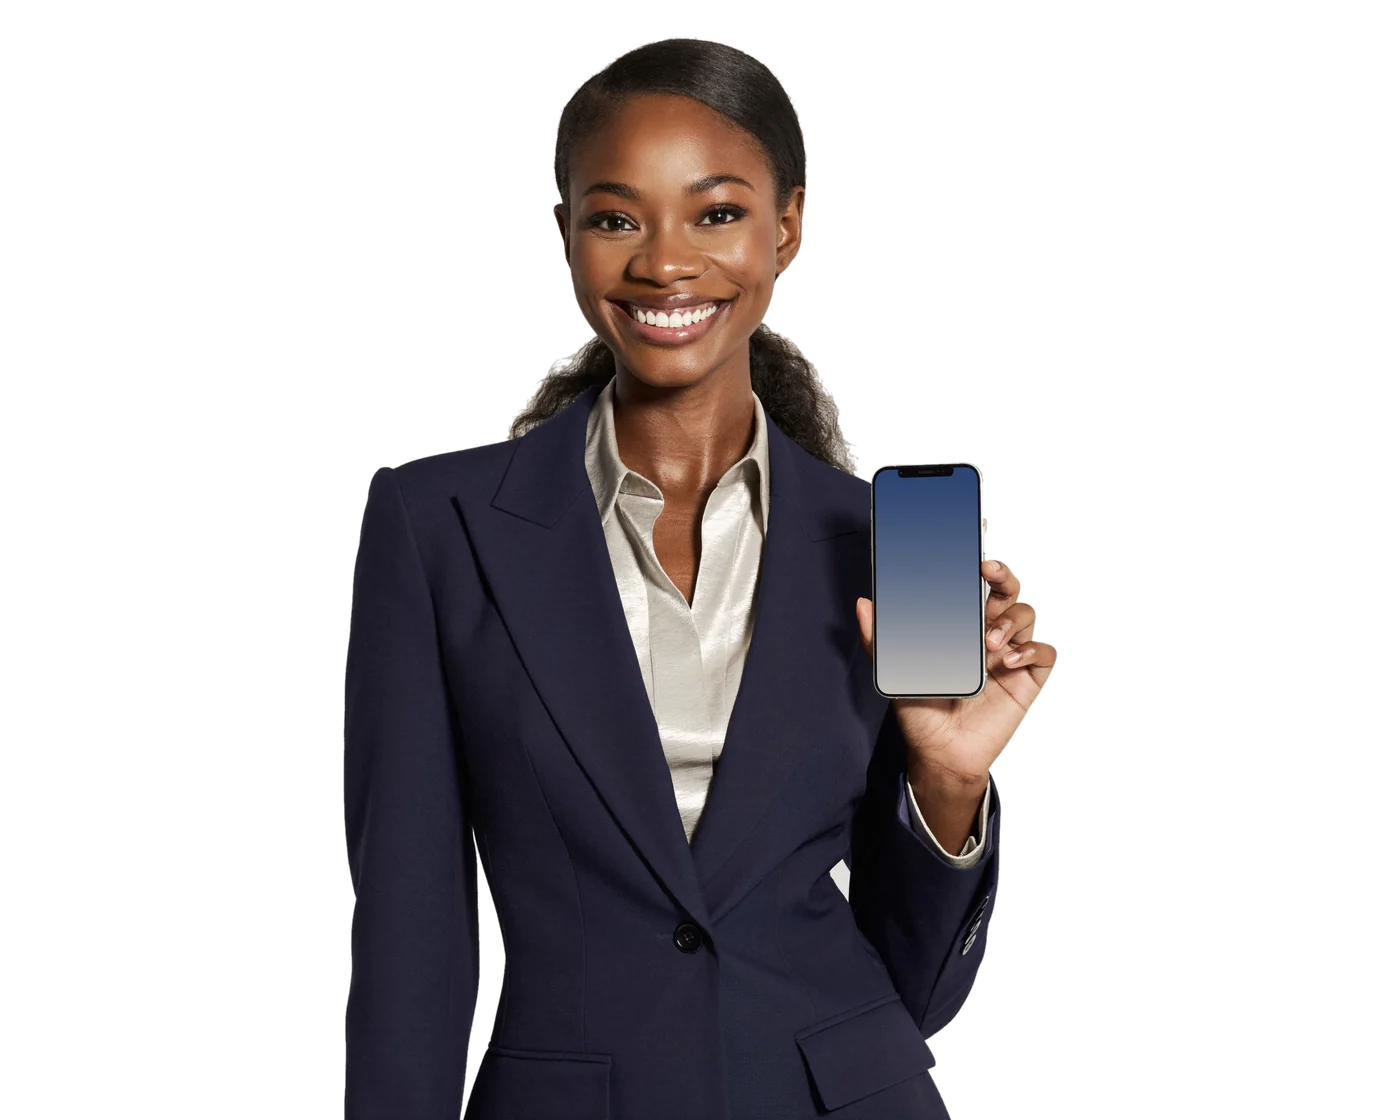
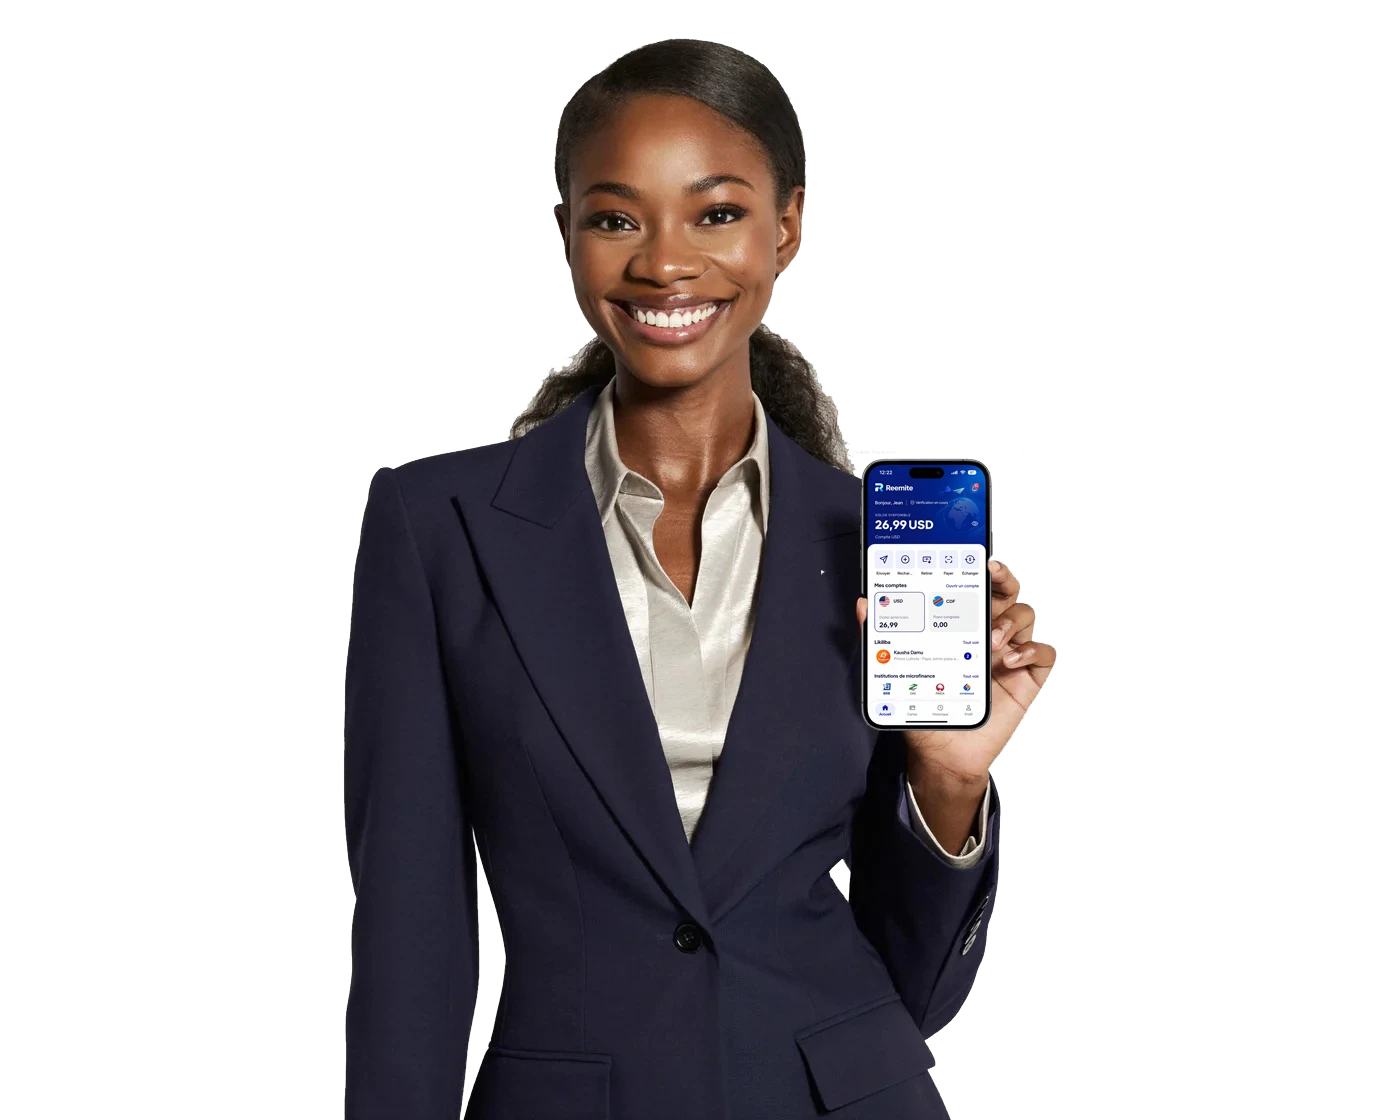
Correction

Changed region(s): [[0.6143, 0.4062, 0.7064, 0.6562], [0.5836, 0.75, 0.6143, 0.8125]]

diff --git a/src/pages/VirtualCards.tsx b/src/pages/VirtualCards.tsx
@@ -1,4 +1,5 @@
 import type { ComponentType } from "react";
+import { motion, useReducedMotion } from "framer-motion";
 import {
   ArrowRight,
   Bell,
@@ -13,6 +14,7 @@ import {
   Zap,
 } from "lucide-react";
 import { Nav } from "../components/Nav";
+import { useTranslation } from "react-i18next";
 import { Footer } from "../components/Footer";
 import { CookieConsent } from "../components/CookieConsent";
 import { WhatsAppButton } from "../components/WhatsAppButton";
@@ -35,7 +37,85 @@ const icons: Record<string, ComponentType<{ size?: number; className?: string }>
   History,
 };
 
+const cardArt = [
+  { left: "3%", top: "2%", rotate: -10, colors: "from-[#07194A] via-[#173F9E] to-[#26A9E0]" },
+  { left: "13%", top: "18%", rotate: 7, colors: "from-[#0A173B] via-[#2B2A72] to-[#7768E8]" },
+  { left: "5%", top: "35%", rotate: -3, colors: "from-white via-[#EFF6FF] to-[#C7E8FF]" },
+];
+
+function VirtualCardShowcase({ compact = false }: { compact?: boolean }) {
+  const reduceMotion = useReducedMotion();
+  const { i18n } = useTranslation();
+  const english = i18n.language.startsWith("en");
+
+  return (
+    <div
+      role="img"
+      aria-label={english ? "Reemite virtual card designs" : "Aperçu des cartes virtuelles Reemite"}
+      className={`relative mx-auto w-full ${compact ? "aspect-[1.5] max-w-[460px]" : "aspect-[1.18] max-w-[590px]"}`}
+    >
+      <div aria-hidden="true" className="absolute inset-[8%] rounded-full bg-blue-300/40 blur-3xl" />
+      {(compact ? cardArt.slice(0, 1) : cardArt).map((card, index) => (
+        <motion.div
+          key={card.colors}
+          aria-hidden="true"
+          initial={reduceMotion ? false : { opacity: 0, y: 22, rotate: card.rotate - 4 }}
+          animate={reduceMotion
+            ? { opacity: 1, y: 0, rotate: card.rotate }
+            : { opacity: 1, y: [0, -8, 0], rotate: [card.rotate, card.rotate + 1, card.rotate] }}
+          transition={{
+            opacity: { duration: 0.55, delay: 0.14 * index },
+            y: { duration: 5.2, delay: 0.25 * index, repeat: Infinity, ease: "easeInOut" },
+            rotate: { duration: 5.2, delay: 0.25 * index, repeat: Infinity, ease: "easeInOut" },
+          }}
+          style={{
+            left: compact ? "8%" : card.left,
+            top: compact ? "13%" : card.top,
+            width: "84%",
+            zIndex: 3 - index,
+          }}
+          className={`absolute aspect-[1.586] overflow-hidden rounded-3xl border border-white/40 bg-gradient-to-br ${card.colors} p-4 shadow-[0_28px_65px_-20px_rgba(3,22,69,0.48)] sm:rounded-[1.65rem] sm:p-5`}
+        >
+          <div aria-hidden="true" className="absolute -right-12 -top-20 h-52 w-52 rounded-full border border-white/15" />
+          <div aria-hidden="true" className="absolute -right-5 -top-14 h-40 w-40 rounded-full border border-white/15" />
+          <div className="relative flex h-full flex-col justify-between">
+            <div className="flex items-start justify-between">
+              <span className="inline-flex h-8 items-center rounded-lg bg-white px-2.5 py-1 shadow-sm sm:h-9 sm:px-3">
+                <img src="/assets/icons/logo.png" alt="" className="h-5 w-[82px] object-contain sm:h-6 sm:w-[98px]" />
+              </span>
+              <span className={`mt-1 h-6 w-8 rounded-md border border-white/55 bg-gradient-to-br from-amber-100 via-amber-300 to-amber-500/70 ${index === 2 ? "opacity-70" : ""}`} />
+            </div>
+            <div className={index === 2 ? "text-brand" : "text-white"}>
+              <p className="text-[9px] font-semibold uppercase tracking-[0.18em] opacity-75 sm:text-[10px]">
+                {english ? "Virtual card" : "Carte virtuelle"}
+              </p>
+              <div className="mt-2 flex items-end justify-between gap-2">
+                <p className="whitespace-nowrap font-mono text-[10px] tracking-[0.1em] sm:text-xs sm:tracking-[0.16em]">•••• &nbsp;•••• &nbsp;•••• &nbsp;••••</p>
+                <span className="shrink-0 text-[9px] font-bold uppercase tracking-widest opacity-85 sm:text-[10px]">USD</span>
+              </div>
+            </div>
+          </div>
+        </motion.div>
+      ))}
+      <motion.div
+        aria-hidden="true"
+        animate={reduceMotion ? undefined : { y: [0, -5, 0] }}
+        transition={{ duration: 4.5, repeat: Infinity, ease: "easeInOut", delay: 0.8 }}
+        className="absolute bottom-[4%] right-[1%] z-10 rounded-2xl border border-white/70 bg-white/90 px-4 py-3 shadow-card backdrop-blur sm:right-0"
+      >
+        <p className="text-[10px] font-medium text-muted">{english ? "Card status" : "État de la carte"}</p>
+        <p className="mt-1 flex items-center gap-2 text-xs font-semibold text-ink">
+          <span className="h-2 w-2 rounded-full bg-emerald-500" />
+          {english ? "Ready for purchases" : "Prête pour vos achats"}
+        </p>
+      </motion.div>
+    </div>
+  );
+}
+
 export function VirtualCards() {
+  const { i18n } = useTranslation();
+  const english = i18n.language.startsWith("en");
   const { virtualCardsPage, mobileMoneyProviders, paymentMethods } = useContent();
   const { hero, features, steps, useCases, security, fees, coverage, faq, cta } =
     virtualCardsPage;
@@ -48,7 +128,7 @@ export function VirtualCards() {
         {/* ===================================================== HERO ===== */}
         <section className="relative overflow-hidden bg-surface-2 pt-32 pb-16 lg:pt-40 lg:pb-20">
           <div className="mx-auto grid max-w-6xl items-center gap-10 px-6 lg:grid-cols-[1.1fr_1fr] lg:gap-16">
-            <div>
+            <Reveal className="max-w-xl">
               <span className="text-sm font-semibold tracking-wide text-brand">
                 {hero.eyebrow}
               </span>
@@ -56,21 +136,18 @@ export function VirtualCards() {
                 {hero.title} <span className="text-accent">{hero.titleAccent}</span>
               </h1>
               <p className="mt-4 max-w-md text-lg text-muted">{hero.subtitle}</p>
-            </div>
+              <a
+                href={businessUrl("/signup")}
+                className="mt-7 inline-flex items-center gap-2 rounded-full bg-brand px-6 py-3 text-sm font-semibold text-white shadow-soft transition-all hover:-translate-y-0.5 hover:bg-brand-dark focus-visible:outline-none focus-visible:ring-2 focus-visible:ring-brand focus-visible:ring-offset-2"
+              >
+                {english ? "Create a virtual card" : "Créer une carte virtuelle"}
+                <ArrowRight size={17} aria-hidden="true" />
+              </a>
+            </Reveal>
 
-            <div className="relative mx-auto w-full max-w-[620px] lg:max-w-[660px]">
-              <div
-                aria-hidden
-                className="pointer-events-none absolute left-1/2 top-1/2 -z-10 h-[80%] w-[80%] -translate-x-1/2 -translate-y-1/2 rounded-full bg-brand-light opacity-70 blur-3xl"
-              />
-              <img
-                src={"/assets/images/bank-card.webp"}
-                alt="Carte virtuelle Reemite créée depuis le tableau de bord"
-                loading="eager"
-                decoding="async"
-                className="mx-auto block h-auto w-full max-w-full select-none object-contain"
-              />
-            </div>
+            <Reveal delay={0.12} className="w-full">
+              <VirtualCardShowcase />
+            </Reveal>
           </div>
         </section>
 
@@ -307,13 +384,7 @@ export function VirtualCards() {
               </Reveal>
 
               <Reveal delay={0.1}>
-                <img
-                  src={"/assets/images/bank-card.webp"}
-                  alt=""
-                  aria-hidden
-                  loading="lazy"
-                  className="mx-auto block w-full max-w-[460px] select-none object-contain"
-                />
+                <VirtualCardShowcase compact />
               </Reveal>
             </div>
           </div>

diff --git a/src/components/AboutReemite.tsx b/src/components/AboutReemite.tsx
@@ -1,0 +1,88 @@
+import { ArrowLeftRight, ArrowUpRight, CreditCard, Gem } from "lucide-react";
+import { useTranslation } from "react-i18next";
+import { Link } from "react-router-dom";
+import reemiteWoman from "../assets/8988 copie.png";
+import reemiteApp from "../assets/Tiree.jpeg";
+import { Reveal } from "./Reveal";
+
+export function AboutReemite() {
+  const { i18n } = useTranslation();
+  const english = i18n.language.startsWith("en");
+  const pillars = english
+    ? [
+        { icon: CreditCard, title: "Finance within reach", text: "Useful financial services, brought together in one place." },
+        { icon: ArrowLeftRight, title: "Connected payments", text: "Move money across borders and closer to everyday needs." },
+        { icon: Gem, title: "Productive industries", text: "A long-term vision for finance that supports Africa’s growth." },
+      ]
+    : [
+        { icon: CreditCard, title: "La finance à portée de main", text: "Des services financiers utiles, réunis au même endroit." },
+        { icon: ArrowLeftRight, title: "Des paiements connectés", text: "Faire circuler l’argent au-delà des frontières et au plus près des besoins." },
+        { icon: Gem, title: "Des secteurs productifs", text: "Une vision à long terme d’une finance au service de la croissance africaine." },
+      ];
+
+  return (
+    <section aria-labelledby="about-reemite-title" className="px-5 py-16 sm:px-6 sm:py-24">
+      <Reveal className="mx-auto max-w-6xl overflow-hidden rounded-[2rem] border border-surface-2 bg-white shadow-[0_24px_80px_-48px_rgba(30,24,114,0.38)]">
+        <div className="grid lg:grid-cols-[0.92fr_1.08fr]">
+          <div className="relative isolate flex flex-col justify-center overflow-hidden bg-brand px-7 py-10 text-white sm:px-10 sm:py-14 lg:px-12 lg:py-16">
+            <div aria-hidden="true" className="absolute -right-24 -top-24 -z-10 h-72 w-72 rounded-full bg-blue-400/20 blur-3xl" />
+            <p className="inline-flex w-fit items-center gap-2 rounded-full border border-white/20 bg-white/10 px-3.5 py-2 text-xs font-semibold uppercase tracking-[0.16em] text-white/85">
+              {english ? "Our vision for Africa" : "Notre vision pour l’Afrique"}
+            </p>
+            <h2 id="about-reemite-title" className="mt-6 max-w-xl font-display text-3xl font-bold leading-[1.08] tracking-tight text-balance sm:text-4xl lg:text-[2.75rem]">
+              {english ? "Finance that helps Africa move forward." : "Une finance qui fait avancer l’Afrique."}
+            </h2>
+            <p className="mt-5 max-w-xl text-base leading-7 text-white/75 sm:text-lg sm:leading-8">
+              {english
+                ? "Reemite brings useful digital financial services closer to businesses and communities. Our long-term vision is to help transform Africa through finance and an economy that includes productive industries such as mining."
+                : "Reemite rapproche les services financiers numériques des entreprises et des communautés. Notre vision à long terme est de contribuer à transformer l’Afrique grâce à la finance et à une économie qui inclut des secteurs productifs comme l’industrie minière."}
+            </p>
+            <Link
+              to="/transferts-internationaux"
+              className="group mt-8 inline-flex w-fit items-center gap-2 rounded-full bg-white px-5 py-3 text-sm font-semibold text-brand transition-colors hover:bg-blue-50 focus-visible:outline-none focus-visible:ring-2 focus-visible:ring-white focus-visible:ring-offset-2 focus-visible:ring-offset-brand"
+            >
+              {english ? "Explore Reemite" : "Découvrir Reemite"}
+              <ArrowUpRight size={16} className="transition-transform group-hover:translate-x-0.5 group-hover:-translate-y-0.5" aria-hidden="true" />
+            </Link>
+          </div>
+
+          <div className="relative min-h-[340px] overflow-hidden bg-[#f5f8ff] sm:min-h-[440px] lg:min-h-[530px]">
+            <img
+              src={reemiteWoman}
+              alt={english ? "A woman holding a phone with the Reemite app" : "Une femme présentant l’application Reemite sur son téléphone"}
+              loading="lazy"
+              decoding="async"
+              className="absolute inset-0 h-full w-full object-cover object-center"
+            />
+            <div className="absolute bottom-5 left-5 h-[112px] w-[112px] overflow-hidden rounded-[1.15rem] border-[5px] border-white bg-white shadow-[0_18px_50px_-16px_rgba(15,23,42,0.48)] sm:bottom-8 sm:left-8 sm:h-[145px] sm:w-[145px]">
+              <img
+                src={reemiteApp}
+                alt={english ? "Reemite app showing transfers and multi-currency accounts" : "L’application Reemite avec ses transferts et comptes multidevises"}
+                loading="lazy"
+                decoding="async"
+                className="block h-full w-full object-cover object-top"
+              />
+            </div>
+            <p className="absolute bottom-6 right-5 max-w-[9rem] rounded-xl border border-white/80 bg-white/90 px-3 py-2 text-xs font-semibold leading-5 text-ink shadow-lg backdrop-blur-sm sm:bottom-9 sm:right-8 sm:max-w-[11rem] sm:px-4 sm:py-3 sm:text-sm">
+              {english ? "One app, closer to your everyday finances." : "Une application au plus près de vos besoins."}
+            </p>
+          </div>
+        </div>
+
+        <div className="grid divide-y divide-surface-2 border-t border-surface-2 sm:grid-cols-3 sm:divide-x sm:divide-y-0">
+          {pillars.map(({ icon: Icon, title, text }) => (
+            <article key={title} className="flex gap-4 px-6 py-6 sm:block sm:px-7 sm:py-8 lg:px-9">
+              <span className="flex h-10 w-10 shrink-0 items-center justify-center rounded-xl bg-brand/5 text-brand sm:mb-5">
+                <Icon size={19} strokeWidth={1.8} aria-hidden="true" />
+              </span>
+              <div>
+                <h3 className="text-sm font-semibold text-ink sm:text-base">{title}</h3>
+                <p className="mt-1.5 text-sm leading-6 text-muted">{text}</p>
+              </div>
+            </article>
+          ))}
+        </div>
+      </Reveal>
+    </section>
+  );
+}

diff --git a/src/seo.ts b/src/seo.ts
@@ -20,11 +20,11 @@ export const DEFAULT_SEO_IMAGE = "/og-image.png";
 
 export const seoConfig: Record<string, SeoEntry> = {
   "/": {
-    title: "Reemite | Dépôt, retrait gratuit partout en RDC",
+    title: "Reemite | Paiements et fintech en Afrique",
     description:
-      "Dépôt et retrait gratuit chez un agent Reemite partout en RDC, cartes virtuelles et transferts internationaux. Trouvez un agent près de vous ou devenez agent.",
+      "Paiements, transferts internationaux, cartes virtuelles et dépôts ou retraits en RDC via les agents Reemite. Une fintech africaine fondée par Prince Muloko et Prince Lulinda.",
     keywords:
-      "dépôt d'argent, retrait gratuit, agent Reemite, carte virtuelle, transfert international, réseau d'agents, mobile money, Afrique",
+      "Reemite, finance en Afrique, paiements en Afrique, fintech africaine, Prince Muloko, Prince Lulinda, transferts internationaux, cartes virtuelles, réseau d'agents",
     image: "/og-image.png",
     robots: "index,follow",
   },
@@ -111,10 +111,10 @@ export const seoConfig: Record<string, SeoEntry> = {
 /** Version anglaise des pages publiques (servies sous /en). */
 export const seoConfigEn: Record<string, SeoEntry> = {
   "/": {
-    title: "Reemite | Deposits, free withdrawals anywhere in the DRC",
+    title: "Reemite | Payments and fintech in Africa",
     description:
-      "Deposit cash and withdraw for free at a Reemite agent anywhere in the DRC, buy virtual cards and send money abroad. Find an agent near you or become one.",
-    keywords: "cash deposit, free withdrawal, Reemite agent, virtual card, international transfer, agent network, mobile money, Africa",
+      "Payments, international transfers, virtual cards and cash deposits or withdrawals in the DRC through Reemite agents. An African fintech founded by Prince Muloko and Prince Lulinda.",
+    keywords: "Reemite, finance in Africa, African payments, African fintech, Prince Muloko, Prince Lulinda, international transfers, virtual cards, agent network",
   },
   "/pricing": {
     title: "Reemite pricing | Payments and fintech for businesses",
@@ -210,10 +210,15 @@ export function resolveSeo(pathname: string, lang: UrlLanguage = "fr") {
 export function buildSchema(pathname: string, lang: UrlLanguage = "fr") {
   const { title, description, url } = resolveSeo(pathname, lang);
   const faqs = lang === "en" ? faqsEn : faqsFr;
+  const organizationDescription = lang === "en"
+    ? "Reemite builds financial technology solutions to support African businesses and communities, with a vision to contribute to the transformation of Africa through finance and the mining industry."
+    : "Reemite développe des solutions technologiques financières pour soutenir les entreprises et les communautés africaines, avec la vision de contribuer à transformer l’Afrique grâce à la finance et à l’industrie minière.";
+  const founderDescription = lang === "en" ? "Founder of Reemite." : "Fondateur de Reemite.";
+  const cofounderDescription = lang === "en" ? "Co-founder of Reemite." : "Co-fondateur de Reemite.";
   return {
     "@context": "https://schema.org",
     "@graph": [
-      { "@type": ["Organization", "FinancialService"], "@id": `${CANONICAL_ORIGIN}/#organization`, name: "Reemite", url: CANONICAL_ORIGIN, logo: `${CANONICAL_ORIGIN}/android-chrome-512x512.png`, description: "Reemite is a financial technology company, not a bank.", areaServed: "Africa and international markets", contactPoint: { "@type": "ContactPoint", contactType: "customer support", url: `${CANONICAL_ORIGIN}/contact`, areaServed: "Worldwide" } },
+      { "@type": ["Organization", "FinancialService"], "@id": `${CANONICAL_ORIGIN}/#organization`, name: "Reemite", url: CANONICAL_ORIGIN, logo: `${CANONICAL_ORIGIN}/android-chrome-512x512.png`, description: organizationDescription, founder: [{ "@type": "Person", "@id": `${CANONICAL_ORIGIN}/#prince-muloko`, name: "Prince Muloko", description: founderDescription }, { "@type": "Person", "@id": `${CANONICAL_ORIGIN}/#prince-lulinda`, name: "Prince Lulinda", description: cofounderDescription }], areaServed: "Africa and international markets", contactPoint: { "@type": "ContactPoint", contactType: "customer support", url: `${CANONICAL_ORIGIN}/contact`, areaServed: "Worldwide" } },
       { "@type": "WebSite", "@id": `${CANONICAL_ORIGIN}/#website`, url: `${CANONICAL_ORIGIN}/`, name: "Reemite", publisher: { "@id": `${CANONICAL_ORIGIN}/#organization` }, inLanguage: ["fr", "en", "ln", "sw"] },
       { "@type": pathname === "/contact" ? "ContactPage" : "WebPage", "@id": `${url}#webpage`, url, name: title, description, inLanguage: lang, isPartOf: { "@id": `${CANONICAL_ORIGIN}/#website` }, about: { "@id": `${CANONICAL_ORIGIN}/#organization` } },
       // FAQ de l'accueil, dans la langue de la page
@@ -243,7 +248,6 @@ export function renderHeadTags(url: string) {
   return [
     `<title>${title}</title>`,
     `<meta name="description" content="${description}" />`,
-    `<meta name="keywords" content="${escapeHtml(seo.keywords)}" />`,
     `<meta name="robots" content="${seo.robots}" />`,
     `<link rel="canonical" href="${seo.url}" />`,
     ...seo.alternates.map((a) => `<link rel="alternate" hreflang="${a.lang}" href="${a.url}" />`),

diff --git a/index.html b/index.html
@@ -6,12 +6,11 @@
   <meta name="viewport" content="width=device-width, initial-scale=1.0" />
   <meta name="theme-color" content="#1E1872" />
   <meta name="google-site-verification" content="w9IRZdfJv-v_W4wlqacC1hYw2jNmY9rMLn-G9r-kVXg" />
+  <meta name="google-site-verification" content="2wSaQMnX4CRmT4WdinC8XeMaFsItJCUEmCu0AK8rKN8" />
   <!--seo:start-->
   <meta name="robots" content="index,follow" />
   <meta name="description"
     content="Reemite aide les entreprises à gérer les paiements, les transferts internationaux, les cartes virtuelles, l'epargne de credit (Likelimba) et le payroll avec des solutions de paiement sécurisées." />
-  <meta name="keywords"
-    content="paiements entreprises, payroll, transferts internationaux, cartes virtuelles, fintech Afrique, API de paiement, Likelimba, epargne de credit, solutions de paiement sécurisées, Reemite" />
   <meta property="og:title" content="Reemite | Paiements, transferts et payroll pour entreprises" />
   <meta property="og:description"
     content="Solutions de paiement et fintech pour les entreprises, avec transferts internationaux, payroll, cartes virtuelles et API sécurisées." />

diff --git a/src/components/Seo.tsx b/src/components/Seo.tsx
@@ -61,13 +61,12 @@ function addJsonLd(data: Record<string, unknown>) {
 
 export function Seo({ pathname, lang }: SeoProps) {
   useEffect(() => {
-    const { title, description, keywords, image, robots, url, alternates, xDefault } = resolveSeo(pathname, lang);
+    const { title, description, image, robots, url, alternates, xDefault } = resolveSeo(pathname, lang);
     const imageUrl = image.startsWith("http") ? image : `${CANONICAL_ORIGIN}${image}`;
 
     document.title = title;
 
     setMetaTag('meta[name="description"]', "name", "description", description);
-    setMetaTag('meta[name="keywords"]', "name", "keywords", keywords);
     setMetaTag('meta[name="robots"]', "name", "robots", robots);
     setMetaTag('meta[property="og:locale"]', "property", "og:locale", lang === "en" ? "en_US" : "fr_FR");
     setMetaTag('meta[property="og:title"]', "property", "og:title", title);

diff --git a/src/pages/Home.tsx b/src/pages/Home.tsx
@@ -15,6 +15,7 @@ import { FAQ } from "../components/FAQ";
 import { CTABanner } from "../components/CTABanner";
 import { Footer } from "../components/Footer";
 import { WhatsAppButton } from "../components/WhatsAppButton";
+import { AboutReemite } from "../components/AboutReemite";
 
 export function Home() {
   return (
@@ -32,6 +33,7 @@ export function Home() {
         {/* <NoCodeShowcase /> */}
         <Testimonials />
         <FAQ />
+        <AboutReemite />
         <CTABanner />
       </main>
       <Footer />

diff --git a/src/components/Reveal.tsx b/src/components/Reveal.tsx
@@ -36,7 +36,7 @@ export function Reveal({
       ref={ref}
       className={className}
       initial={false}
-      animate={hidden ? { opacity: 0, y } : { opacity: 1, y: 0 }}
+      animate={hidden ? { opacity: 0, y, scale: 0.985 } : { opacity: 1, y: 0, scale: 1 }}
       transition={hidden ? { duration: 0 } : { duration: 0.5, delay, ease: [0.16, 1, 0.3, 1] }}
     >
       {children}
